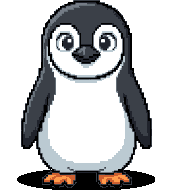
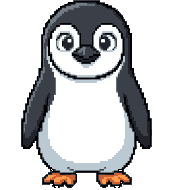
O Linu sem a sombra que trocava de cor, e o Linu do contato acenando
- Os quadros do linuhub vêm do app com a sombra do chão desenhada: preta no Linu parado de frente e cinza
  nos passos e de costas, então ela mudava quando ele andava. Agora os quadros vêm sem ela (de frente, o
  "olhando" puro) e a cena desenha uma sombra só, igual em todas as poses.
- O Linu do contato acena duas vezes e pisca quando aparece na tela, uma vez por visita, e pula de alegria
  quando alguém toca nele (ou passa o mouse). Com "menos movimento", só troca a pose.
- Versões novas do estilo.css e do tema.js nas páginas, para o navegador não ficar com a cópia antiga.

Changed region(s): [[0.0872, 0.8947, 0.9012, 1.0]]

diff --git a/public/css/estilo.css b/public/css/estilo.css
@@ -113,6 +113,8 @@ h1 { margin: 0; font-size: clamp(2.3rem, 5.5vw, 3.8rem); line-height: 1.05; font
 @media (prefers-color-scheme: dark) { :root:not([data-theme="light"]) .cena-apagada { opacity: 1; } }
 :root[data-theme="dark"] .cena-apagada { opacity: 1; }
 .cena-linu { position: absolute; top: 63.02%; left: 0; width: 16.05%; height: 31.77%; opacity: 0; pointer-events: none; }
+/* a sombra do chão é uma só, igual em todas as poses (os quadros vêm do app sem ela) */
+.cena-linu::before { content: ""; position: absolute; left: 18%; right: 18%; bottom: -3%; height: 11%; border-radius: 50%; background: rgba(15, 23, 42, .42); }
 .linu-frente, .linu-costas, .linu-lado { position: absolute; inset: 0; width: 100%; height: 100%; display: none; }
 .cena-linu[data-pose="frente"] .linu-frente,
 .cena-linu[data-pose="costas"] .linu-costas,
@@ -249,6 +251,14 @@ h3 { margin: 0 0 6px; font-size: 1.2rem; font-weight: 800; }
 .depoimento blockquote p { margin: 0; }
 .depoimento figcaption { color: var(--tinta-suave); font-size: .95rem; }
 .contato-linu { width: 160px; flex: none; }
+/* o Linu do contato: uma folha com 4 poses (acenando, de olho fechado, feliz e comemorando); o js/movimento.js troca */
+span.contato-linu { display: block; position: relative; aspect-ratio: 138 / 190; overflow: hidden; cursor: pointer; }
+.contato-linu img { width: 400%; max-width: none; height: 100%; transform: translateX(calc(var(--quadro, 0) * -25%)); }
+.contato-linu[data-pose="acenando-piscando"] { --quadro: 1; }
+.contato-linu[data-pose="feliz"] { --quadro: 2; }
+.contato-linu[data-pose="comemorando"] { --quadro: 3; }
+.contato-linu.pulo { animation: linu-pulo .5s ease-out; }
+@keyframes linu-pulo { 35% { transform: translateY(-14px); } 70% { transform: translateY(2px); } }
 @media (max-width: 760px) {
   .contato-dentro { flex-direction: column; align-items: flex-start; gap: 16px; }
   .contato-linu { width: 120px; }

diff --git a/public/js/movimento.js b/public/js/movimento.js
@@ -33,6 +33,35 @@
     links.forEach((a) => { const s = document.querySelector(a.getAttribute('href')); if (s) spy.observe(s); });
   }
 
+  // ---- O Linu do contato: acena quando aparece e pula de alegria no toque ----
+  // Uma vez por visita, sem ficar repetindo; com "menos movimento", só troca a pose, sem pular.
+  const linu = document.querySelector('span.contato-linu');
+  if (linu) {
+    let fila = [];
+    const pose = (p) => { linu.dataset.pose = p; };
+    const sequencia = (passos) => {
+      fila.forEach(clearTimeout);
+      fila = passos.map(([ms, p]) => setTimeout(() => pose(p), ms));
+    };
+    if (!calmo && 'IntersectionObserver' in window) {
+      const viu = new IntersectionObserver((es) => {
+        if (!es.some((e) => e.isIntersecting)) return;
+        viu.disconnect();
+        sequencia([[0, 'feliz'], [240, 'acenando'], [480, 'feliz'], [720, 'acenando'], [1700, 'acenando-piscando'], [1860, 'acenando']]);
+      }, { threshold: 0.6 });
+      viu.observe(linu);
+    }
+    const comemorar = () => {
+      sequencia([[0, 'comemorando'], [900, 'acenando']]);
+      if (calmo) return;
+      linu.classList.remove('pulo');
+      void linu.offsetWidth; // reinicia o pulo
+      linu.classList.add('pulo');
+    };
+    linu.addEventListener('click', comemorar);
+    linu.addEventListener('pointerenter', (e) => { if (e.pointerType === 'mouse') comemorar(); });
+  }
+
   // ---- Monte o seu site: estimativa na hora e a mensagem pronta ----
   // Os preços são os mesmos dos cartões e das dúvidas da página (a partir de; o painel é extra só no site de
   // apresentação). O resto entra na proposta, e a estimativa diz isso em vez de inventar valor.

diff --git a/public/index.html b/public/index.html
@@ -23,10 +23,10 @@
   <meta property="og:url" content="https://sites.linupedia.com.br/">
   <meta property="og:locale" content="pt_BR">
   <script src="js/tema-inicio.js?v=5"></script>
-  <link rel="stylesheet" href="css/estilo.css?v=8">
-  <script src="js/tema.js?v=5" defer></script>
+  <link rel="stylesheet" href="css/estilo.css?v=9">
+  <script src="js/tema.js?v=6" defer></script>
   <script src="js/menu.js?v=5" defer></script>
-  <script src="js/movimento.js?v=4" defer></script>
+  <script src="js/movimento.js?v=5" defer></script>
   <script src="js/simulador.js?v=1" defer></script>
 </head>
 <body>
@@ -294,7 +294,7 @@
 
     <section class="secao contato" id="contato">
       <div class="dentro contato-dentro">
-        <img class="pixel contato-linu" src="img/linu-pixel.png" alt="" width="138" height="190">
+        <span class="contato-linu" data-pose="acenando" aria-hidden="true"><img class="pixel" src="img/linu/linu-contato.png" alt="" width="552" height="190"></span>
         <div>
           <h2>Conte sobre o seu site</h2>
           <p>Monte o seu site e veja na hora uma estimativa de preço e de prazo. Depois é só mandar por WhatsApp ou e-mail: a mensagem já sai escrita. Pode ser só uma ideia: a resposta vem com perguntas e próximos passos.</p>

diff --git a/ferramentas/compartilhar.html b/ferramentas/compartilhar.html
@@ -19,6 +19,7 @@
   .cena img { position: absolute; image-rendering: pixelated; }
   .fundo { inset: 0; width: 100%; height: 100%; }
   .linu { left: calc((150 - 27.6) / 344 * 100%); top: 63.02%; width: 16.05%; height: 31.77%; }
+  .sombra { position: absolute; left: calc((150 - 27.6) / 344 * 100% + 16.05% * .18); width: calc(16.05% * .64); top: calc(63.02% + 31.77% * .92); height: calc(31.77% * .11); border-radius: 50%; background: rgba(15, 23, 42, .42); }
 </style>
 </head>
 <body>
@@ -30,6 +31,7 @@
   </div>
   <div class="cena">
     <img class="fundo" src="../public/img/abrigo-estacao-dia.png" alt="">
+    <span class="sombra"></span>
     <img class="linu" src="../public/img/linu/linu-frente.png" alt="">
   </div>
 </body>

diff --git a/public/projetos/linupedia.html b/public/projetos/linupedia.html
@@ -20,8 +20,8 @@
   <meta name="twitter:card" content="summary_large_image">
   <link rel="preload" href="../fontes/nunito-latin.woff2" as="font" type="font/woff2" crossorigin>
   <script src="../js/tema-inicio.js?v=5"></script>
-  <link rel="stylesheet" href="../css/estilo.css?v=5">
-  <script src="../js/tema.js?v=5" defer></script>
+  <link rel="stylesheet" href="../css/estilo.css?v=9">
+  <script src="../js/tema.js?v=6" defer></script>
   <script src="../js/menu.js?v=5" defer></script>
 </head>
 <body>

diff --git a/public/projetos/losvega.html b/public/projetos/losvega.html
@@ -20,8 +20,8 @@
   <meta name="twitter:card" content="summary_large_image">
   <link rel="preload" href="../fontes/nunito-latin.woff2" as="font" type="font/woff2" crossorigin>
   <script src="../js/tema-inicio.js?v=5"></script>
-  <link rel="stylesheet" href="../css/estilo.css?v=5">
-  <script src="../js/tema.js?v=5" defer></script>
+  <link rel="stylesheet" href="../css/estilo.css?v=9">
+  <script src="../js/tema.js?v=6" defer></script>
   <script src="../js/menu.js?v=5" defer></script>
 </head>
 <body>

diff --git a/public/projetos/marginalia.html b/public/projetos/marginalia.html
@@ -20,8 +20,8 @@
   <meta name="twitter:card" content="summary_large_image">
   <link rel="preload" href="../fontes/nunito-latin.woff2" as="font" type="font/woff2" crossorigin>
   <script src="../js/tema-inicio.js?v=5"></script>
-  <link rel="stylesheet" href="../css/estilo.css?v=5">
-  <script src="../js/tema.js?v=5" defer></script>
+  <link rel="stylesheet" href="../css/estilo.css?v=9">
+  <script src="../js/tema.js?v=6" defer></script>
   <script src="../js/menu.js?v=5" defer></script>
 </head>
 <body>

diff --git a/public/projetos/v2tech.html b/public/projetos/v2tech.html
@@ -20,8 +20,8 @@
   <meta name="twitter:card" content="summary_large_image">
   <link rel="preload" href="../fontes/nunito-latin.woff2" as="font" type="font/woff2" crossorigin>
   <script src="../js/tema-inicio.js?v=5"></script>
-  <link rel="stylesheet" href="../css/estilo.css?v=5">
-  <script src="../js/tema.js?v=5" defer></script>
+  <link rel="stylesheet" href="../css/estilo.css?v=9">
+  <script src="../js/tema.js?v=6" defer></script>
   <script src="../js/menu.js?v=5" defer></script>
 </head>
 <body>

diff --git a/public/404.html b/public/404.html
@@ -8,7 +8,7 @@
   <meta name="theme-color" content="#1F2A44">
   <link rel="icon" href="/img/linu-logo.png" type="image/png" sizes="128x128">
   <script src="/js/tema-inicio.js?v=5"></script>
-  <link rel="stylesheet" href="/css/estilo.css?v=8">
+  <link rel="stylesheet" href="/css/estilo.css?v=9">
 </head>
 <body>
   <!-- Página de erro com código (22/10/2026): o Caddy mostra esta página em qualquer endereço que não existe

diff --git a/ferramentas/linu-do-app.py b/ferramentas/linu-do-app.py
@@ -3,9 +3,11 @@ fez em 24/10/2026 (“O Linu novo em todo lugar”). Rode de novo quando o Linu 
 
     python3 ferramentas/linu-do-app.py [pasta do app]
 
-- img/linu/linu-frente.png e linu-costas.png: o Linu parado do mapa do linuhub (172 × 190, com a sombra);
+- img/linu/linu-frente.png e linu-costas.png: o Linu parado do mapa do linuhub (172 × 190);
 - img/linu/linu-lado.png: os 4 passos de lado numa folha só (688 × 190), desenhados para a direita;
-- img/linu-pixel.png: o Linu acenando (138 × 190), no contato, na página de erro e nas páginas de projeto;
+- img/linu/linu-contato.png: o Linu do contato em 4 poses (552 × 190): acenando, acenando de olho fechado, feliz e
+  comemorando, para o aceno e o pulinho do js/movimento.js;
+- img/linu-pixel.png: o Linu acenando (138 × 190), na página de erro e nas páginas de projeto;
 - img/linu-logo.png (128 px), icone-180.png e icone-32.png: a logo e os ícones do app.
 Tudo na cor padrão. Depois, rode o ferramentas/gerar-imagens.mjs para refazer a imagem de compartilhar.
 """
@@ -17,9 +19,40 @@ APP = Path(sys.argv[1]) if len(sys.argv) > 1 else Path.home() / 'Documentos/proj
 IMG = Path(__file__).resolve().parent.parent / 'public/img'
 HUB = APP / 'assets/pixel/linuhub/linu-novo'
 
+SOMBRA = 22  # as últimas 22 linhas do quadro do linuhub são a sombra do chão (scripts/arte/linuhub-linu-novo.py)
+
 
 def abrir(caminho):
     return Image.open(caminho).convert('RGBA')
+
+
+def sem_sombra(im):
+    """Tira a sombra do chão que vem desenhada nos quadros de costas e de lado (cinza, com um contorno mais claro); no
+    app ela não combina com a do Linu de frente (preta) e trocava de cor quando ele andava. O site desenha uma sombra só,
+    igual em todas as poses (.cena-linu::before). Sai o cinza (pouca cor, nem o escuro do corpo nem o branco da barriga)
+    que encosta na sombra, a partir da cor que mais aparece nas linhas de baixo, só nas 22 linhas do chão."""
+    px = im.load()
+    w, h = im.size
+    cinza = lambda r, g, b: max(r, g, b) - min(r, g, b) <= 28 and 70 <= (r + g + b) / 3 <= 215
+    fila = [(x, y) for y in range(h - 4, h) for x in range(w) if px[x, y][3] and cinza(*px[x, y][:3])]
+    visto = set(fila)
+    while fila:
+        x, y = fila.pop()
+        px[x, y] = (0, 0, 0, 0)
+        for nx, ny in ((x + 1, y), (x - 1, y), (x, y + 1), (x, y - 1)):
+            if 0 <= nx < w and h - SOMBRA <= ny < h and (nx, ny) not in visto:
+                r, g, b, a = px[nx, ny]
+                if a and cinza(r, g, b):
+                    visto.add((nx, ny))
+                    fila.append((nx, ny))
+    return im
+
+
+def no_quadro(im, largura):
+    """Põe um desenho de 138 de largura no meio do quadro do linuhub (172), como o app faz."""
+    quadro = Image.new('RGBA', (largura, im.height))
+    quadro.paste(im, ((largura - im.width) // 2, 0))
+    return quadro
 
 
 def salvar(im, destino):
@@ -28,14 +61,20 @@ def salvar(im, destino):
     print(destino.relative_to(IMG.parent), im.size)
 
 
-salvar(abrir(HUB / 'frente-padrao.png'), IMG / 'linu/linu-frente.png')
-salvar(abrir(HUB / 'costas-padrao.png'), IMG / 'linu/linu-costas.png')
-passos = [abrir(HUB / f'anda-lado-{n}-padrao.png') for n in range(1, 5)]
+# de frente, o app usa o Linu “olhando” com a sombra por cima: aqui vai o “olhando”, sem ela
+salvar(no_quadro(abrir(APP / 'assets/pixel/linu-novo/olhando-padrao.png'), abrir(HUB / 'frente-padrao.png').width), IMG / 'linu/linu-frente.png')
+salvar(sem_sombra(abrir(HUB / 'costas-padrao.png')), IMG / 'linu/linu-costas.png')
+passos = [sem_sombra(abrir(HUB / f'anda-lado-{n}-padrao.png')) for n in range(1, 5)]
 folha = Image.new('RGBA', (passos[0].width * 4, passos[0].height))
 for i, passo in enumerate(passos):
     folha.paste(passo, (i * passo.width, 0))
 salvar(folha, IMG / 'linu/linu-lado.png')
 salvar(abrir(APP / 'assets/pixel/linu-novo/acenando-padrao.png'), IMG / 'linu-pixel.png')
+poses = [abrir(APP / f'assets/pixel/linu-novo/{n}-padrao.png') for n in ('acenando', 'acenando-piscando', 'feliz', 'comemorando')]
+contato = Image.new('RGBA', (poses[0].width * len(poses), poses[0].height))
+for i, pose in enumerate(poses):
+    contato.paste(pose, (i * pose.width, 0))
+salvar(contato, IMG / 'linu/linu-contato.png')
 salvar(abrir(APP / 'assets/logo/linu-logo.png').resize((128, 128), Image.LANCZOS), IMG / 'linu-logo.png')
 icone = abrir(APP / 'public/apple-touch-icon.png')
 salvar(icone.convert('RGB'), IMG / 'icone-180.png')

diff --git a/ferramentas/gerar-projetos.py b/ferramentas/gerar-projetos.py
@@ -132,8 +132,8 @@ PAGINA = '''<!DOCTYPE html>
   <meta name="twitter:card" content="summary_large_image">
   <link rel="preload" href="../fontes/nunito-latin.woff2" as="font" type="font/woff2" crossorigin>
   <script src="../js/tema-inicio.js?v=5"></script>
-  <link rel="stylesheet" href="../css/estilo.css?v=5">
-  <script src="../js/tema.js?v=5" defer></script>
+  <link rel="stylesheet" href="../css/estilo.css?v=9">
+  <script src="../js/tema.js?v=6" defer></script>
   <script src="../js/menu.js?v=5" defer></script>
 </head>
 <body>

diff --git a/README.md b/README.md
@@ -92,7 +92,9 @@ aplicado na VM, o Café Aurora aparece em branco dentro do simulador no ar** (no
 As imagens da estação e do Linu vêm do app (linupedia, `assets/pixel/`), na mesma grade de 344 × 192.
 Desde 29/10/2026 o Linu é o novo do app em todo o site (o app trocou em 24/10): a logo e os ícones, o Linu que anda
 na cena (frente, costas e os 4 passos de lado do mapa do linuhub, 172 × 190, com 61 de altura na cena) e o Linu
-acenando do contato e da página de erro. `ferramentas/linu-do-app.py` copia tudo do app de novo; depois, o
+acenando da página de erro. O Linu do contato acena quando aparece na tela e pula quando alguém toca nele
+(`js/movimento.js`, uma folha com 4 poses em `img/linu/linu-contato.png`). Os quadros do app vêm sem a sombra do
+chão, que lá muda de cor entre as poses; o site desenha uma sombra só (`.cena-linu::before`). `ferramentas/linu-do-app.py` copia tudo do app de novo; depois, o
 `ferramentas/gerar-imagens.mjs` refaz a imagem de compartilhar. O que é só do site fica em `ferramentas/`:
 
 - `cena-apagada.py` gera `img/abrigo-estacao-apagada.png`, a noite com o lampião apagado (o modo escuro).
